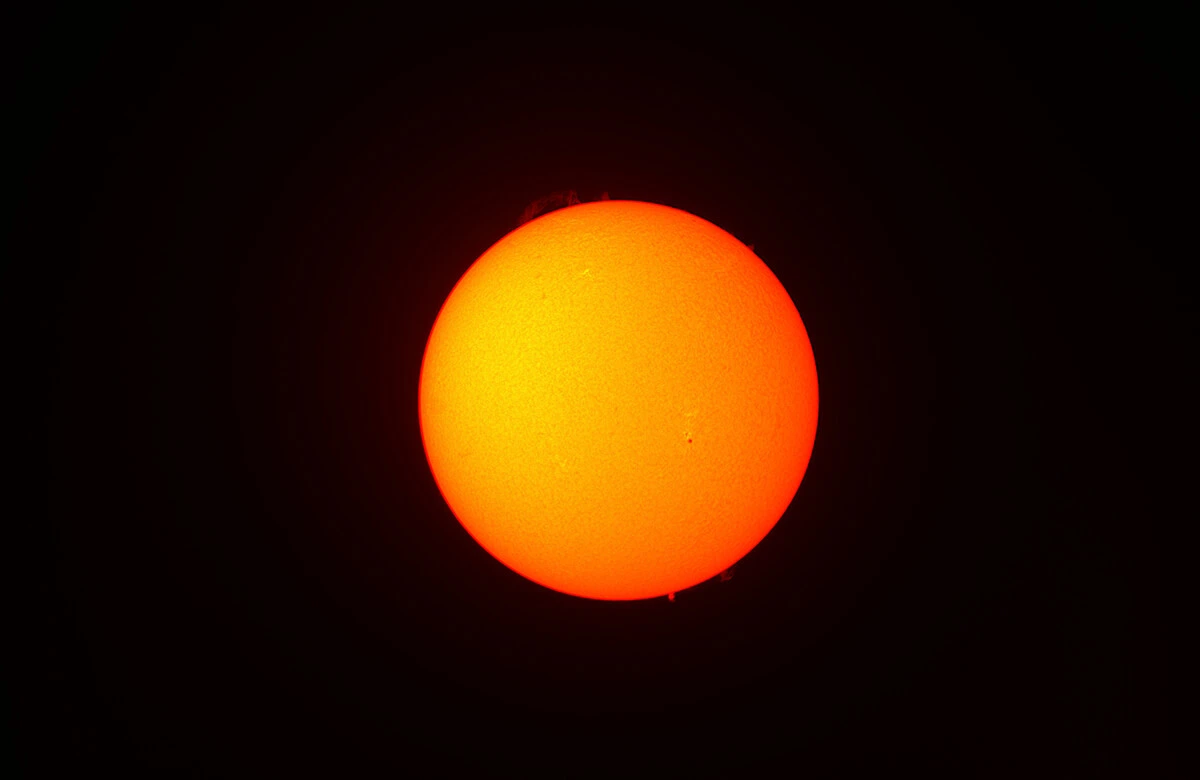
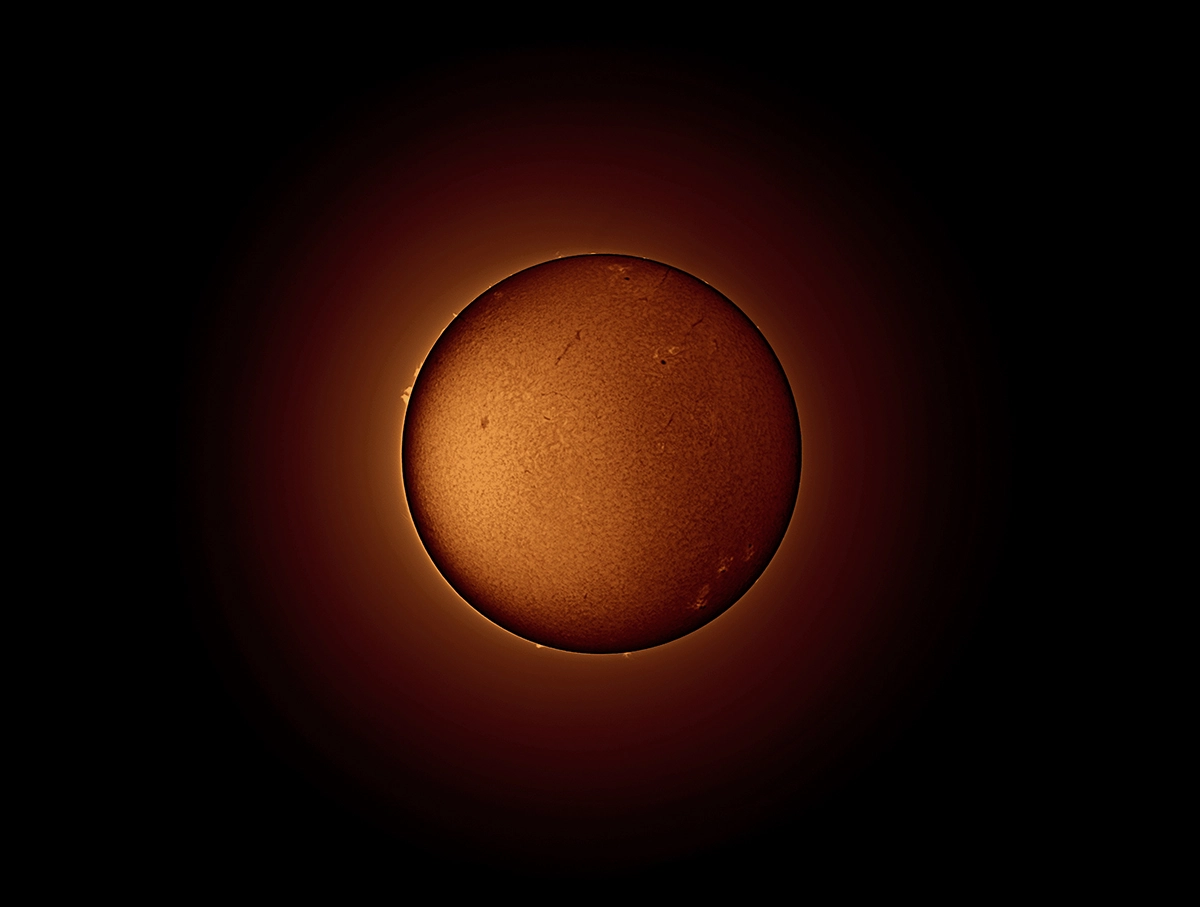
Update solar

Changed region(s): [[0.2158, 0.1846, 0.74, 0.8308]]

diff --git a/index.html b/index.html
@@ -345,11 +345,11 @@
           <figcaption class="md:w-3/5">
             <strong>Solar.</strong>
             <br>
-            Taken with Coronado SolarMax III. 250 Stacked frames at poor visibility.
+            Taken with Coronado SolarMax III. 250 Stacked frames of the surface, 50 stacked frames of prominences.
           </figcaption>
 
           <div class="md:w-2/5 mt-2 md:mt-0 md:text-right">
-            <time>August 2, 2022</time>
+            <time>August 6, 2022</time>
             <a href="assets/images/large/sun-2.jpg" class="text-light" target="_blank">View full screen</a> <small>(2MB)</small>
           </div>
         </div>
